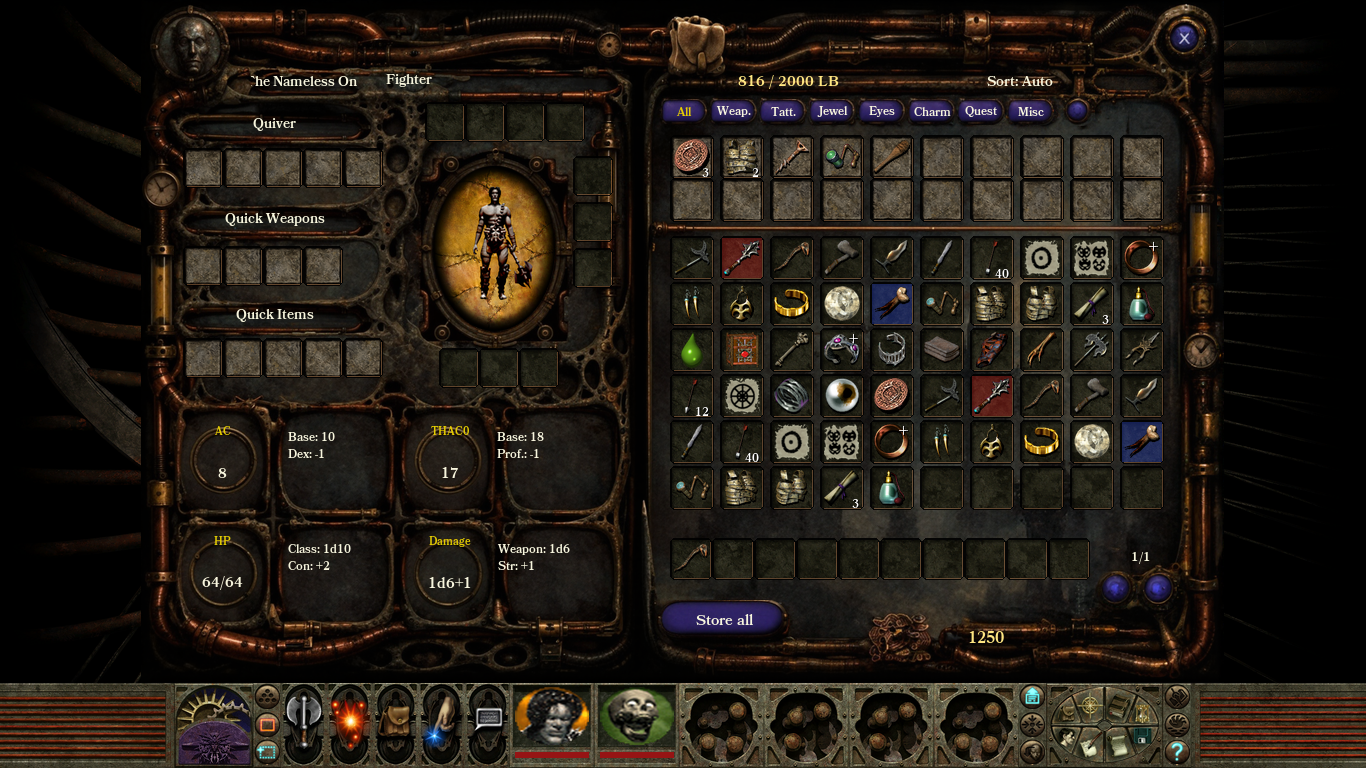
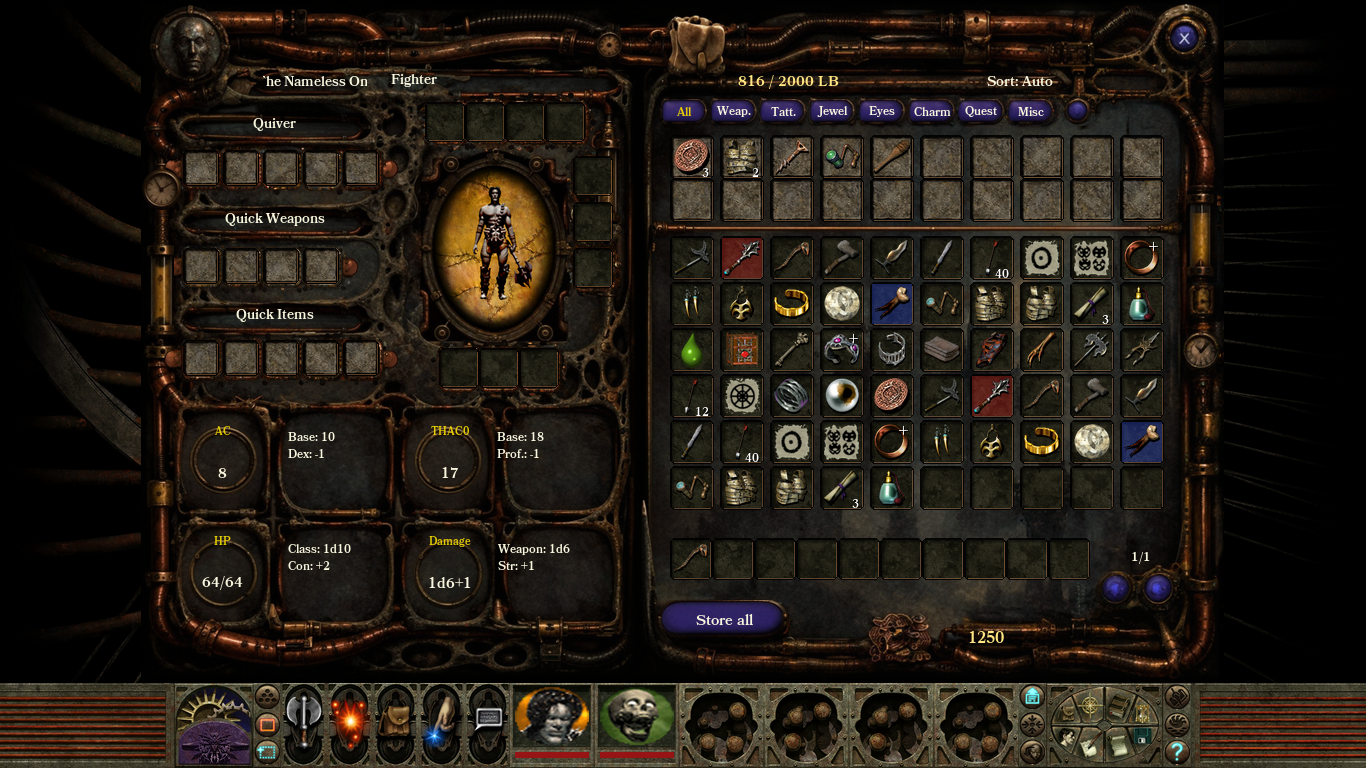
Variant J: dressed slots (carrying pipe rails, organic sockets) via SwarmUI inpaint, spaced quick rails, 4K MOS V2

diff --git a/tools/dress_j.py b/tools/dress_j.py
@@ -42,13 +42,34 @@ def SR(a, pad=0):
     return x0, y0, x1, y1
 
 
-def socket(d, box, rim, k):
-    """Dark recessed square socket with a thick rim."""
+def wobbly(box, amp, rng, n=7):
+    """Irregular rounded outline (organic socket rim)."""
     x0, y0, x1, y1 = box
-    d.rounded_rectangle((x0 - 7 * k, y0 - 7 * k, x1 + 7 * k, y1 + 7 * k), radius=10 * k, fill=rim[2])
-    d.rounded_rectangle((x0 - 5 * k, y0 - 5 * k, x1 + 5 * k, y1 + 5 * k), radius=9 * k, fill=rim[0])
-    d.rounded_rectangle((x0 - 3 * k, y0 - 3 * k, x1 + 3 * k, y1 + 1 * k), radius=8 * k, fill=rim[1])
+    cx, cy, rx, ry = (x0 + x1) / 2, (y0 + y1) / 2, (x1 - x0) / 2, (y1 - y0) / 2
+    pts = []
+    for i in range(n * 4):
+        a = i / (n * 4) * math.tau
+        ca, sa = math.cos(a), math.sin(a)
+        # superellipse (rounded square) + noise
+        e = 0.35
+        x = cx + rx * math.copysign(abs(ca) ** e, ca) + rng.uniform(-amp, amp)
+        y = cy + ry * math.copysign(abs(sa) ** e, sa) + rng.uniform(-amp, amp)
+        pts.append((x, y))
+    return pts
+
+
+def socket(d, box, rim, k, rng):
+    """Dark recessed socket with a thick, irregular corroded rim."""
+    x0, y0, x1, y1 = box
+    d.polygon(wobbly((x0 - 5 * k, y0 - 5 * k, x1 + 5 * k, y1 + 5 * k), 2 * k, rng), fill=rim[2])
+    d.polygon(wobbly((x0 - 3.5 * k, y0 - 3.5 * k, x1 + 3.5 * k, y1 + 3.5 * k), 1.5 * k, rng), fill=rim[0])
+    d.polygon(wobbly((x0 - 2 * k, y0 - 2 * k, x1 + 2 * k, y1 + 1 * k), 1 * k, rng), fill=rim[1])
     d.rounded_rectangle((x0, y0, x1, y1), radius=6 * k, fill=(7, 6, 5))
+    for t in range(rng.randint(3, 6)):  # corrosion pits on the rim
+        px = rng.uniform(x0 - 7 * k, x1 + 7 * k)
+        py = rng.choice([y0 - 7 * k, y1 + 7 * k]) if rng.random() < 0.5 else rng.uniform(y0, y1)
+        r = rng.uniform(1.5, 3.5) * k
+        d.ellipse((px - r, py - r, px + r, py + r), fill=(12, 9, 7))
 
 
 def main():
@@ -59,8 +80,10 @@ def main():
     mask = Image.new("L", base.size, 0)
     md = ImageDraw.Draw(mask)
     k = 2 / K / 2  # sketch unit ~ 1 menu px at 2x
-    copper = ((122, 66, 38), (196, 128, 82), (40, 18, 10))
-    brass = ((120, 100, 52), (200, 176, 104), (40, 30, 12))
+    import random
+    rng = random.Random(seed)
+    copper = ((78, 40, 22), (128, 76, 44), (22, 10, 5))     # darker, like the rest of John's image
+    brass = ((84, 70, 36), (140, 118, 70), (24, 18, 8))
     # quick-slot rows: carrying pipe through the slot centres, sockets on it
     for key in ("quiver", "quick weapons", "quick items"):
         row = L[key]
@@ -68,10 +91,14 @@ def main():
         x1 = SR(row[-1])[2]
         cy = (y0 + y1) / 2
         md.rounded_rectangle((x0 - 40, y0 - 22, x1 + 40, y1 + 22), radius=30, fill=255)
-        tube(sk, [(x0 - 34, cy), (x1 + 34, cy)], 13 * k * 2, "copper")
+        tube(sk, [(x0 - 34, cy), (x1 + 34, cy)], 9 * k * 2, "rust")
         d = ImageDraw.Draw(sk)
-        for a in row:
-            socket(d, SR(a), brass if key == "quick weapons" else copper, k * 2)
+        for i, a in enumerate(row):
+            socket(d, SR(a), brass if key == "quick weapons" else copper, k * 2, rng)
+            if i:  # brass collar on the pipe between two sockets
+                gx = (SR(row[i - 1])[2] + SR(a)[0]) / 2
+                d.rounded_rectangle((gx - 6 * k, cy - 12 * k, gx + 6 * k, cy + 12 * k), radius=3 * k,
+                                    fill=brass[0], outline=brass[2], width=2)
     # body slots: organic sockets + thin pipes to the oval rim
     pd = L["paperdoll"]
     ocx, ocy = S(pd[0] + pd[2] / 2, pd[1] + pd[3] / 2)
@@ -90,7 +117,7 @@ def main():
             aa = t / 9 * math.tau
             d.ellipse((cx + math.cos(aa) * r - 9, cy + math.sin(aa) * r - 9, cx + math.cos(aa) * r + 9,
                        cy + math.sin(aa) * r + 9), fill=(10, 8, 6))
-        socket(d, bx, copper, k * 2)
+        socket(d, bx, copper, k * 2, rng)
     mask = mask.filter(ImageFilter.GaussianBlur(6))
     sk.save(os.path.join(J, "dress_sketch_2x.png"))
     mask.save(os.path.join(J, "dress_mask_2x.png"))

diff --git a/tools/variant_j.py b/tools/variant_j.py
@@ -119,9 +119,9 @@ def layout():
     L = {"menu": {"width": 1024, "height": 768, "bg_offset": OXJ, "bg_size": [round(1579 * K), 683]}}
     L["parts"] = {name: FB(box) for name, _, box in PARTS}
     # left column: title bars at ref y 165/300/440, slots in the dark band under each bar
-    def rail(n, y):
-        return [(14 + i * 40, y, 36, 36) for i in range(n)]
-    L["quiver"], L["quick weapons"], L["quick items"] = rail(5, 150), rail(4, 248), rail(5, 340)
+    def rail(n, y):  # spaced so the carrying pipe shows between the slots (John 2026-10-22)
+        return [(14 + i * 40, y, 32, 32) for i in range(n)]
+    L["quiver"], L["quick weapons"], L["quick items"] = rail(5, 152), rail(4, 250), rail(5, 342)
     L["titles"] = {"Quiver": FB((55, 165, 335, 198)), "Quick Weapons": FB((55, 302, 335, 338)),
                    "Quick Items": FB((55, 442, 335, 478))}
     # paperdoll + 10 body slots around the oval (ref oval frame 410-625 x 220-505)

diff --git a/tools/build_assets.py b/tools/build_assets.py
@@ -1543,7 +1543,7 @@ varG["visible"] = False
 # geometry in design/build/layout_j.json (tools/variant_j.py). Detached pieces get hover/pressed/disabled states.
 LJ = json.load(open(os.path.join(BUILD, "layout_j.json"), encoding="utf-8"))
 JD = os.path.join(ROOT, "design", "art", "j")
-j_bg = Image.open(os.path.join(JD, "bg_clean_2x.png")).convert("RGBA").resize(tuple(LJ["menu"]["bg_size"]),
+j_bg = Image.open(os.path.join(JD, "bg_dressed_2x.png")).convert("RGBA").resize(tuple(LJ["menu"]["bg_size"]),
                                                                               Image.LANCZOS)
 
 

diff --git a/tools/build_mod_j.py b/tools/build_mod_j.py
@@ -126,7 +126,7 @@ def background():
     bw, bh = L["menu"]["bg_size"]
     W4, H4 = 3840, 2160
     img = Image.new("RGB", (W4, H4), (0, 0, 0))
-    bg = Image.open(os.path.join(JD, "bg_clean_2x.png")).convert("RGB").resize((round(bw * HI), round(bh * HI)),
+    bg = Image.open(os.path.join(JD, "bg_dressed_2x.png")).convert("RGB").resize((round(bw * HI), round(bh * HI)),
                                                                                  Image.LANCZOS)
     img.paste(bg, (round((171 + L["menu"]["bg_offset"]) * HI), 0))
     d = ImageDraw.Draw(img, "RGBA")
